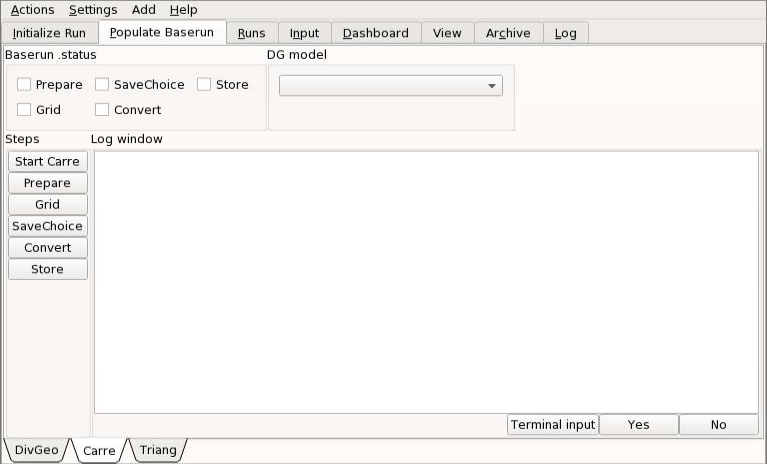
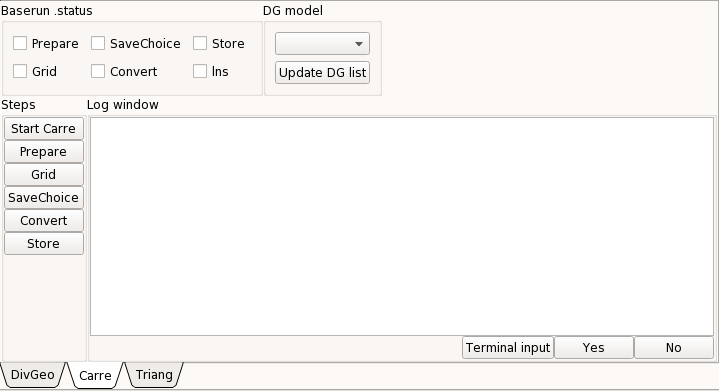
Updated documentation for the carre.py, triang.py changes.

diff --git a/src/widgets/triang.py b/src/widgets/triang.py
@@ -236,7 +236,11 @@ class Triang(TcshProcess):
                 if reading:
                     try:
                         sline = line.split()
-                        name, val = sline[0], sline[1]
+                        if len(sline) == 3:
+                            name = sline[0] + ' ' + sline[1]
+                            val = sline[2]
+                        else:
+                            name, val = sline[0], sline[1]
                         self.vars[TriangVars.Values[name]] = int(val) if \
                             val.isdigit else val
                     except KeyError as e:

diff --git a/doc/source/tutorial/meshing.rst b/doc/source/tutorial/meshing.rst
@@ -2,10 +2,6 @@
 
 .. _meshing:
 
-.. |step| note::
-          The file
-
-
 
 =================
 Meshing toolchain
@@ -673,6 +669,11 @@ clickable tells the user which steps were already run and the *DG model* drop
 down button tells us which DivGeo model has been used to create the plasma
 grid.
 
+.. note::
+
+  If the list does not contain a DG model, you have to rescan the baserun dir
+  with clicking the :guilabel:`Update DG list`.
+
 The lower half is the interface to the Carre. On the left side are control
 buttons and on the right we have a log window which shows us the output of
 Carre. Underneath the log window we have the response widgets for Carre. The
@@ -698,6 +699,10 @@ For more information search the ``solps-iter/scripts`` folder and run the
 Now we can click the button :guilabel:`Start Carre` to start Carre. This will
 take a while since the environemnt of *SOLPS-ITER* has to be loaded to a TCSH
 shell before Carre can be started.
+
+Notice that the ``lns`` check box was ticked. Whenever you will want to redo
+the linking with ``lns`` just untick it before clicking
+:guilabel:`Start Carre`.
 
 After a while the following output should be shown in the log window.
 
@@ -964,7 +969,14 @@ The second is to modify the grid points by hand (if there are not too many of
 them). This can be done as follows. Change one of the mouse button functions
 to ``Move mesh point`` and select a corner of a magenta grid cell and move it
 until the cell outline changes colour to lavender. You may need to propagate
-such changes over a range of cells. Bear in mind however that you are only
+such changes over a range of cells.
+
+The result is that there are no more magenta grids.
+
+.. image:: carre_19.png
+   :align: center
+
+Bear in mind however that you are only
 modifying the \*.sno grid file. You will need to save your modifications by
 exporting the mesh :menuselection:`File --> Export --> Mesh`.
 
